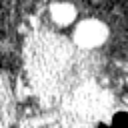
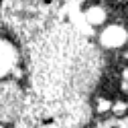
quick update on directory localization

diff --git a/pancreas_segmentation_app/inference_server.py b/pancreas_segmentation_app/inference_server.py
@@ -18,10 +18,9 @@ import tensorflow as tf
 
 # Global model reference
 model = None
-# Auto-detect model path - check local folder first, then Gradio Web App folder
+# Auto-detect model path - check local folder first
 _script_dir = os.path.dirname(os.path.abspath(__file__))
-_gradio_model = os.path.join(os.path.dirname(_script_dir), "Gradio Web App", "unet_best.keras")
-MODEL_PATH = _gradio_model if os.path.exists(_gradio_model) else r"I:\My Drive\Colab Notebooks\Gradio Web App\unet_best.keras"
+MODEL_PATH = os.path.join(_script_dir, "unet_best.keras")
 
 def load_model():
     """Load the Keras model"""
